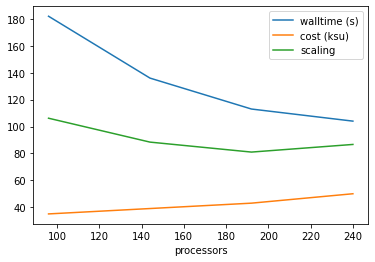
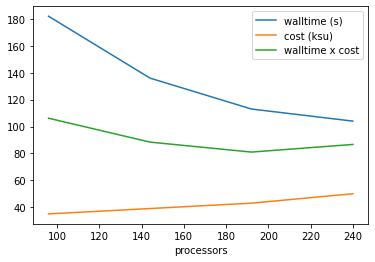
deploy: ca8d7087c8a65ef1915e4a0f09f71aa76dc0d708

Changed region(s): [[0.6747, 0.0305, 0.968, 0.2443]]

diff --git a/concepts-intro.html b/concepts-intro.html
@@ -428,12 +428,12 @@
 </div>
 <div class="cell tag_hide-input docutils container">
 <div class="cell_input docutils container">
-<div class="highlight-ipython3 notranslate"><div class="highlight"><pre><span></span><span class="n">data</span><span class="p">[</span><span class="s1">&#39;scaling&#39;</span><span class="p">]</span> <span class="o">=</span> <span class="n">data</span><span class="p">[</span><span class="s1">&#39;walltime (s)&#39;</span><span class="p">]</span> <span class="o">*</span> <span class="n">data</span><span class="p">[</span><span class="s1">&#39;cost (ksu)&#39;</span><span class="p">]</span> <span class="o">/</span> <span class="mi">60</span> <span class="c1"># Scaled to fit on the plot</span>
+<div class="highlight-ipython3 notranslate"><div class="highlight"><pre><span></span><span class="n">data</span><span class="p">[</span><span class="s1">&#39;walltime x cost&#39;</span><span class="p">]</span> <span class="o">=</span> <span class="n">data</span><span class="p">[</span><span class="s1">&#39;walltime (s)&#39;</span><span class="p">]</span> <span class="o">*</span> <span class="n">data</span><span class="p">[</span><span class="s1">&#39;cost (ksu)&#39;</span><span class="p">]</span> <span class="o">/</span> <span class="mi">60</span> <span class="c1"># Scaled to fit on the plot</span>
 
 <span class="n">ax</span> <span class="o">=</span> <span class="n">plt</span><span class="o">.</span><span class="n">axes</span><span class="p">()</span>
 <span class="n">data</span><span class="o">.</span><span class="n">plot</span><span class="p">(</span><span class="s1">&#39;processors&#39;</span><span class="p">,</span> <span class="s1">&#39;walltime (s)&#39;</span><span class="p">,</span> <span class="n">ax</span><span class="o">=</span><span class="n">ax</span><span class="p">)</span>
 <span class="n">data</span><span class="o">.</span><span class="n">plot</span><span class="p">(</span><span class="s1">&#39;processors&#39;</span><span class="p">,</span> <span class="s1">&#39;cost (ksu)&#39;</span><span class="p">,</span> <span class="n">ax</span><span class="o">=</span><span class="n">ax</span><span class="p">)</span>
-<span class="n">data</span><span class="o">.</span><span class="n">plot</span><span class="p">(</span><span class="s1">&#39;processors&#39;</span><span class="p">,</span> <span class="s1">&#39;scaling&#39;</span><span class="p">,</span> <span class="n">ax</span><span class="o">=</span><span class="n">ax</span><span class="p">);</span>
+<span class="n">data</span><span class="o">.</span><span class="n">plot</span><span class="p">(</span><span class="s1">&#39;processors&#39;</span><span class="p">,</span> <span class="s1">&#39;walltime x cost&#39;</span><span class="p">,</span> <span class="n">ax</span><span class="o">=</span><span class="n">ax</span><span class="p">);</span>
 </pre></div>
 </div>
 </div>
